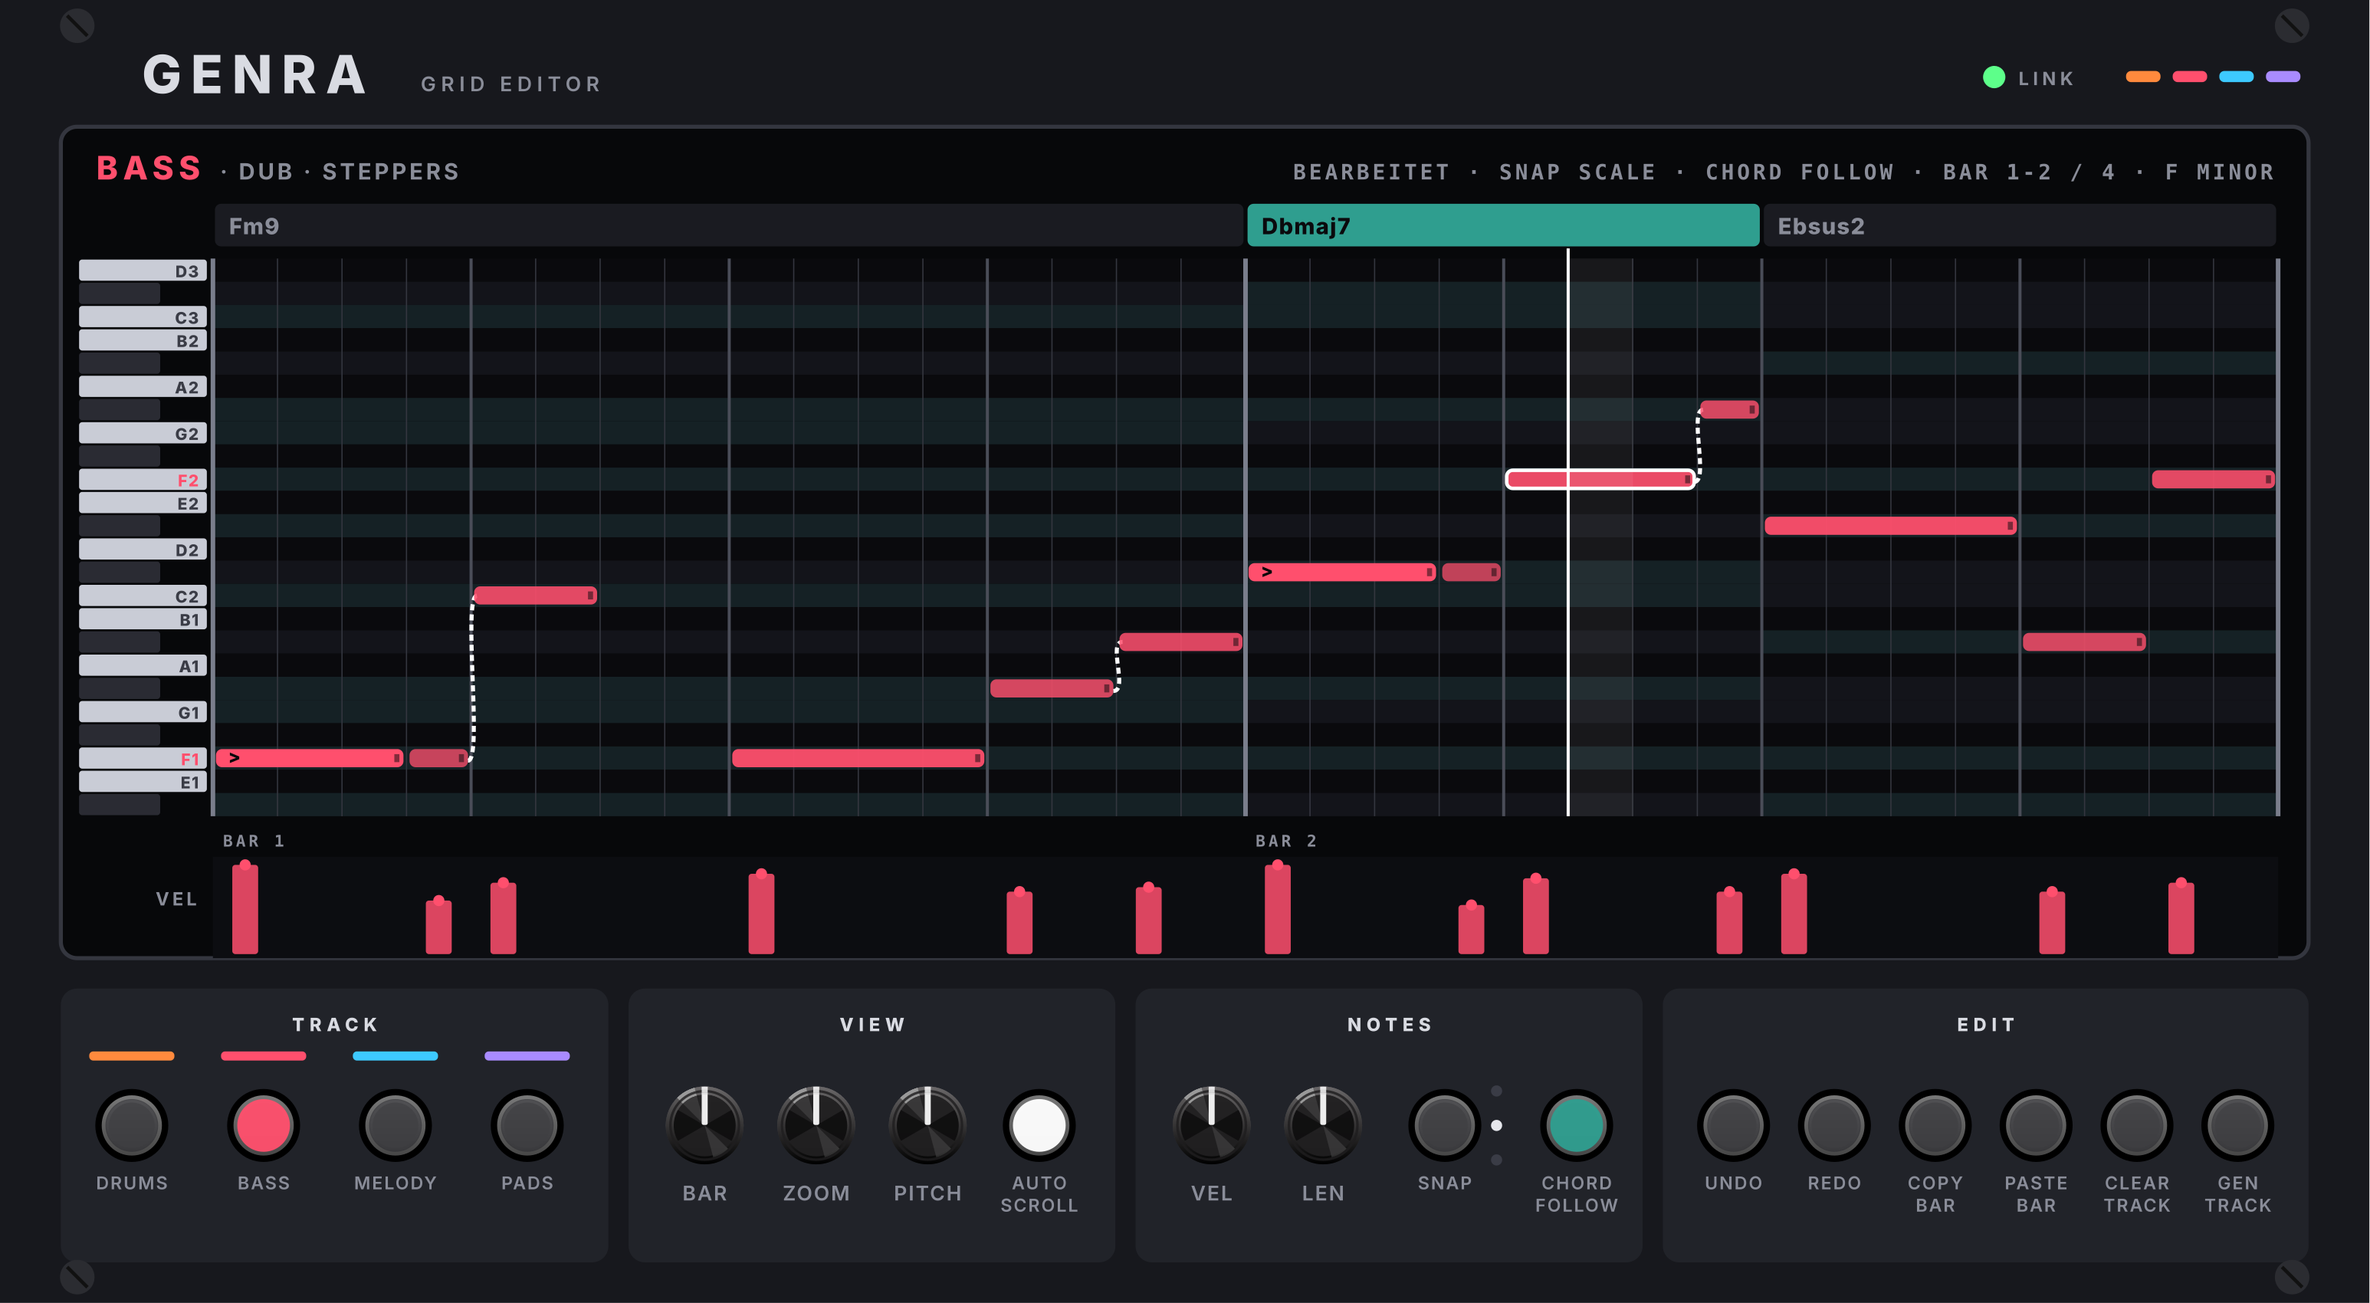
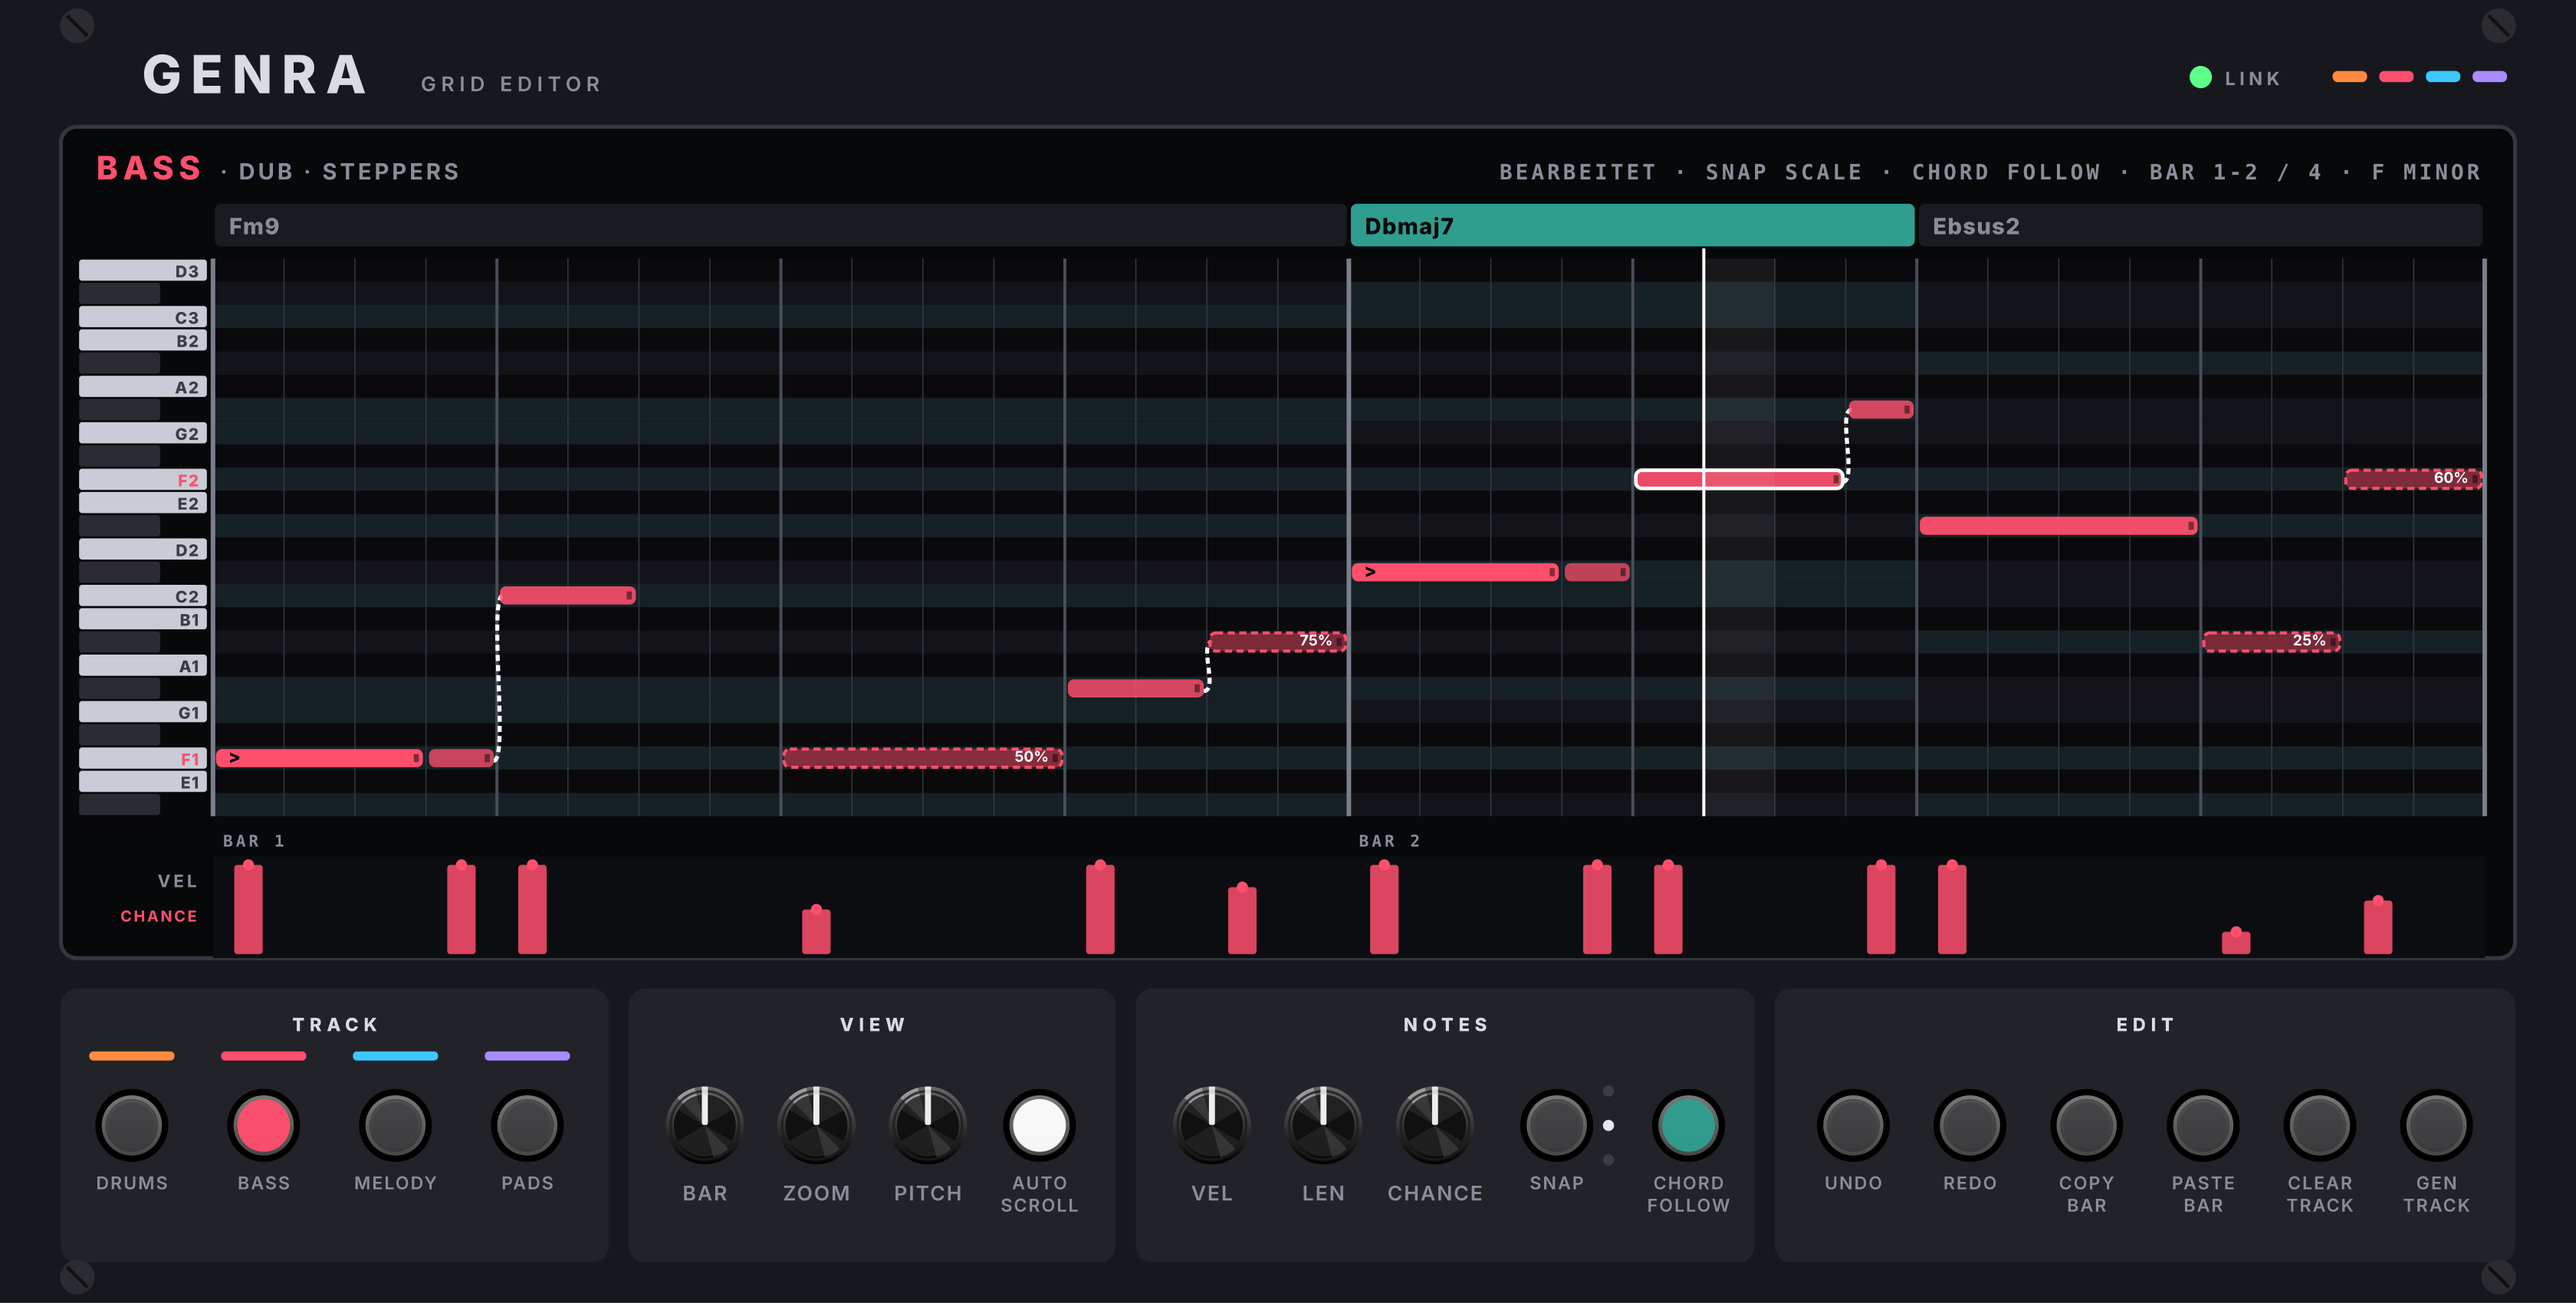
v3.1: Doku und Entwurfsbilder
Claude-Session: https://claude.ai/code/session_01ETAzGvBRoxLNYc8ZYdKX33

diff --git a/README.md b/README.md
@@ -1,12 +1,12 @@
 # GENRA v3 – Generativer 4-Spur-Sequencer für VCV Rack 2
 
-Breite: **58 HP**. Projektstand und Entscheidungen: `PROJEKT.md`.
+Breite: **64 HP** (GENRA) und **50 HP** (Grid Editor). Projektstand und Entscheidungen: `PROJEKT.md`.
 
 ## GENRA Grid Editor (zweites Modul)
 
 ![Grid Editor](docs/entwuerfe/genra_grid_piano.png)
 
-Ein zweites Modul im selben Plugin (46 HP) zum vollständigen Bearbeiten des Loops: Drum-Raster, Piano-Roll für Bass, Melodie und Pads, Velocity-Spur.
+Ein zweites Modul im selben Plugin (50 HP) zum vollständigen Bearbeiten des Loops: Drum-Raster, Piano-Roll für Bass, Melodie und Pads, Velocity-Spur.
 
 - **Verbindung:** direkt links oder rechts neben GENRA setzen (LINK-LED leuchtet). Oder im Rechtsklick-Menü *Verbinden mit…* ein beliebiges GENRA im Patch wählen.
 - **TRACK:** Spur wählen. **VIEW:** BAR (erster sichtbarer Takt), ZOOM (1/2/4/8 Takte), PITCH (Tonbereich), AUTO SCROLL (Ansicht läuft mit).
@@ -14,6 +14,8 @@ Ein zweites Modul im selben Plugin (46 HP) zum vollständigen Bearbeiten des Loo
 - **Piano-Roll:** Klick setzt eine Note (Länge LEN, Velocity VEL), Ziehen am rechten Rand ändert die Länge, Ziehen der Note verschiebt sie, Doppelklick löscht. Rechtsklick: Akzent, Slide, Velocity. Tonleitertöne sind heller, Akkordtöne blaugrün hinterlegt, die Akkordfolge steht darüber.
 - **SNAP:** AUS / SCALE / CHORD für neue und verschobene Noten; mit Shift gedrückt: alle Noten der Spur einrasten.
 - **CHORD FOLLOW:** bearbeitete Noten folgen neuen Akkorden (HARMONY NEW): Grundtöne werden zum neuen Grundton, alle anderen Töne wandern in der Tonleiter mit.
+- **CHANCE:** Wahrscheinlichkeit neuer Noten (Regler). Jede Note/jeder Schlag kann eine eigene Wahrscheinlichkeit haben und „nur jeden 2. Durchlauf“ spielen (Rechtsklick). Solche Noten sind gestrichelt und zeigen ihren Wert. Die untere Spur schaltet per Klick auf „VEL“/„CHANCE“ um – dort zieht man Velocity bzw. Chance mit der Maus.
+- **Mehrfachauswahl:** Shift + Ziehen = Rahmen, Strg + Klick = Note an-/abwählen, Strg+A = alles. Ausgewählte Noten zusammen ziehen; Pfeile ↑↓ = Tonhöhe (Shift: Oktave; Drums: Stimme), ←→ = Position (Shift: ein Takt); Entf = löschen; Strg+C / Strg+V = kopieren / an der Mausposition einfügen; Strg+D = dahinter duplizieren; Esc = Auswahl aufheben. Mausrad und Rechtsklick-Menü wirken auf die ganze Auswahl.
 - **EDIT:** UNDO, REDO, COPY/PASTE BAR (erster sichtbarer Takt), CLEAR TRACK, GEN TRACK (Spur wieder generativ).
 - **Was „bearbeitet“ heisst:** Sobald du etwas änderst, spielt die Spur feste Noten – genau das, was vorher zu hören war, plus deine Änderungen. DENSITY/COMPLEX wirken dann nicht mehr auf diese Spur, FILL (Fills und Drops) und Humanize schon. MUTATE verändert auch bearbeitete Spuren – LOCK schützt sie vor MUTATE und NEW ALL.
 
@@ -24,7 +26,8 @@ Ein zweites Modul im selben Plugin (46 HP) zum vollständigen Bearbeiten des Loo
 - **Swing pro Spur:** Jede Spur swingt wie das Genre, das sie spielt (Lo-Fi-Melodie über geradem Techno). SWING verschiebt alle gemeinsam. Gilt auch für den MIDI-Export.
 - **Neue CV-Eingänge:** FILL (Trigger: Fill/Drop am Loop-Ende), VARIANT, COMPLEX, COLOR (0–10 V, zum Regler addiert), DENS-CV pro Spur.
 - **HARMONY** (früher CHORDS, jetzt blaugrün): NEW, LOCK, TRIG für die gemeinsame Akkordfolge, der Bass, Melodie und Pads folgen.
-- **Szenen (8 Plätze):** Leerer Platz drücken = aktuellen Loop speichern (alle Spuren, Akkorde, Spur-Genres, Länge). Belegter Platz = abrufen, beim Spielen am nächsten Taktanfang (blinkt bis dahin). Überschreiben: STORE drücken (blinkt), dann den Platz. NEXT-Trigger = nächste belegte Szene, CV 0–10 V = Szene 1–8. Rechtsklick-Menü: *Alle Szenen löschen*. Szenen werden im Patch gespeichert.
+- **Ein- und Ausgänge (v3.1):** neue CV-Eingänge SWING (0–10 V addiert), BPM (interne Clock, 10 BPM pro Volt), LENGTH. Spalte **OUT**: CLOCK (16tel), RESET (Loop-Anfang), RUN (Gate), BAR (pro Takt), END (letzter Step), FILL (Gate während Fill/Drop), ROOT (Grundton des aktuellen Akkords, V/Oct zwischen C4 und B4), CHORD (ganzer Akkord, polyphon).
+- **Szenen (8 Plätze):** Taster-Farbe: dunkel = leer, rot = Pattern gespeichert, grün = aktiv (blinkt bis zum Wechsel). Leerer Platz drücken = aktuellen Loop speichern (alle Spuren, Akkorde, Spur-Genres, Länge). Belegter Platz = abrufen, beim Spielen am nächsten Taktanfang (blinkt bis dahin). Überschreiben: STORE drücken (blinkt), dann den Platz. NEXT-Trigger = nächste belegte Szene, CV 0–10 V = Szene 1–8. Rechtsklick-Menü: *Alle Szenen löschen*. Szenen werden im Patch gespeichert.
 - **Display:** Genre jeder Spur neben ihren Lauflichtern, aktive Szene, Akkordnamen mit # oder b passend zur Tonart.
 - **Fehlerkorrekturen:** MIDI-Export/-Import mit exakter Länge und Akkordfolge, threadsichere Akkord-Bearbeitung, neues Speicherformat (v2-Patches werden übernommen; Spuren stehen dann auf *Global*).
 

diff --git a/PROJEKT.md b/PROJEKT.md
@@ -1,6 +1,6 @@
 # GENRA – Projektstand
 
-**Stand:** 5. November 2026 · **Version 3 in Arbeit (2.2.0)** · Repo: `CamilloGF/genra-v3`
+**Stand:** 5. November 2026 · **Version 3.1 in Arbeit (2.2.0)** · Repo: `CamilloGF/genra-v3`
 Vorgänger: v1 `CamilloGF/vcv-sequenzer-Genra` (2.0.0), v2 `CamilloGF/Genra-v2` (2.1.0, läuft in Rack)
 Plattform: VCV Rack Pro 2.6.6 unter Windows · Build: GitHub Actions (`.github/workflows/main.yml`)
 
@@ -39,7 +39,7 @@ Generativer, genreabhängiger 4-Spur-Sequencer für VCV Rack 2. Erfindet Loops (
 | `src/GenraModule.hpp` / `src/Genra.cpp` | Rack-Modul GENRA: Clock/Swing, Ausgänge, Display, Menüs, Speichern |
 | `src/Store.cpp` | Speicherformat `pattern3`, Übernahme von v2-Patches |
 | `src/Edit.cpp` | Bearbeiten: Einfrieren, Noten schreiben, Chord Follow, Snap, Copy/Paste |
-| `src/GenraGrid.cpp` | Grid-Editor-Modul |
+| `src/GenraGrid.cpp` | Grid-Editor-Modul (`tools/grid_panel.py` erzeugt Frontplatte + `src/LayoutGrid.hpp`) |
 | `tools/panel.py` | erzeugt `res/Genra.svg` + `src/Layout.hpp` (`python3 tools/panel.py real`) und Vorschau (`preview`) |
 | `test/` | Engine- und MIDI-Rundlauf-Tests (g++, ohne Rack) |
 
@@ -99,8 +99,20 @@ Generativer, genreabhängiger 4-Spur-Sequencer für VCV Rack 2. Erfindet Loops (
 - [x] SNAP (Tonleiter/Akkord), UNDO/REDO (64 Schritte), COPY/PASTE BAR, CLEAR, GEN
 - [x] Tests: `test/test_edit.cpp`
 
+**Erledigt – v3.1 (Stand 5. November 2026)**
+- [x] GENRA 64 HP: SCENES neben IN, OUT-Spalte rechts aussen; Eingänge SWING, BPM, LENGTH; Ausgänge CLOCK, RESET, RUN, BAR, END, FILL, ROOT, CHORD (poly)
+- [x] Szenen-LEDs zweifarbig: rot = gespeichert, grün = aktiv
+- [x] CHANCE + „jeden 2. Durchlauf“ für bearbeitete Noten/Schläge (`fchance`, `fcond`); Durchlaufzähler `Params::pass`, deterministisch pro Durchlauf (`chancePlays`); Editor zeigt alle Noten (`ignoreChance`)
+- [x] Grid Editor 50 HP: CHANCE-Regler, untere Spur VEL/CHANCE, Mehrfachauswahl (Rahmen, Strg-Klick, Strg+A), Auswahl verschieben/transponieren/löschen/kopieren/duplizieren per Maus und Tastatur
+- [x] Entschieden: kein direkter MIDI-Ausgang (MIDI-Export reicht)
+
+**Als Nächstes**
+- [ ] 13 neue Genres per Spezifikation (Doc zum Kommentieren), hinten angehängt: Afrobeat, Afrobeats, Amapiano, Afro House · Dub Techno, Melodic Techno, Hard/Industrial Techno, Tech House, Detroit Techno · Baile Funk, Reggaeton, Footwork, Breakcore
+- [ ] Später: Länge pro Spur (Polymeter), Szenen verketten (Song-Modus), Seed merken, Mikro-Timing
+- [ ] Ganz am Schluss: alle Genres nach Gehör feinschleifen
+
 **Offen**
-- [ ] Test in Rack (v3 + Grid Editor) (Genre-Feld-Menü, CV-Eingänge, Szenen, v2-Patch laden)
+- [ ] Test in Rack (v3.1: neue Ausgänge, Szenen-Farben, CHANCE, Mehrfachauswahl) (Genre-Feld-Menü, CV-Eingänge, Szenen, v2-Patch laden)
 - [ ] Länge pro Spur (Polymeter) – zurückgestellt: tonale Spuren müssten Akkorde über den echten Step statt den umgebrochenen lesen
 - [ ] Genres überarbeiten (eigene spätere Version), Genres aus MIDI lernen
 
